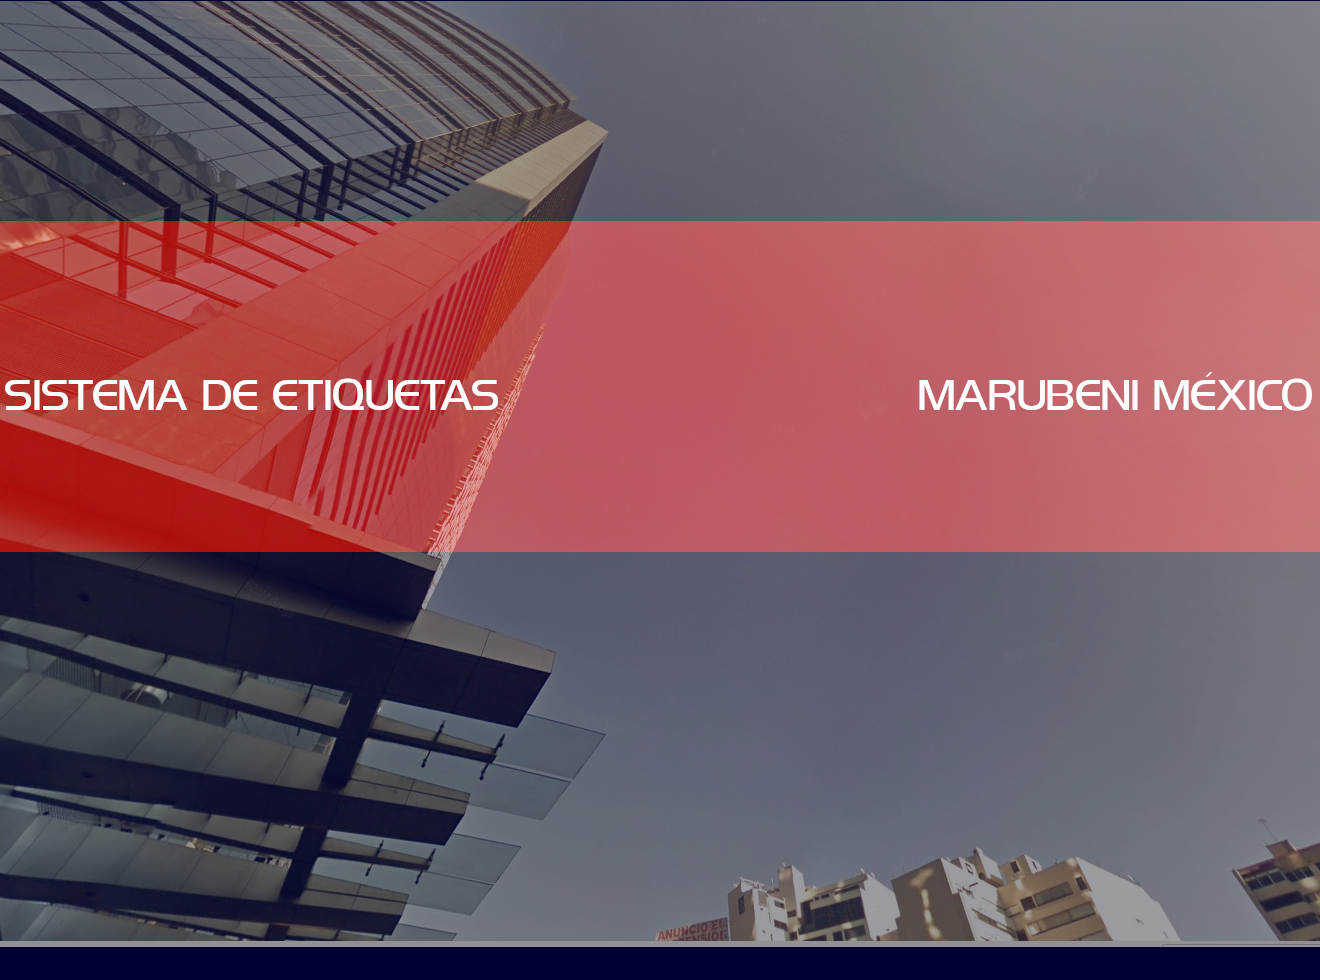
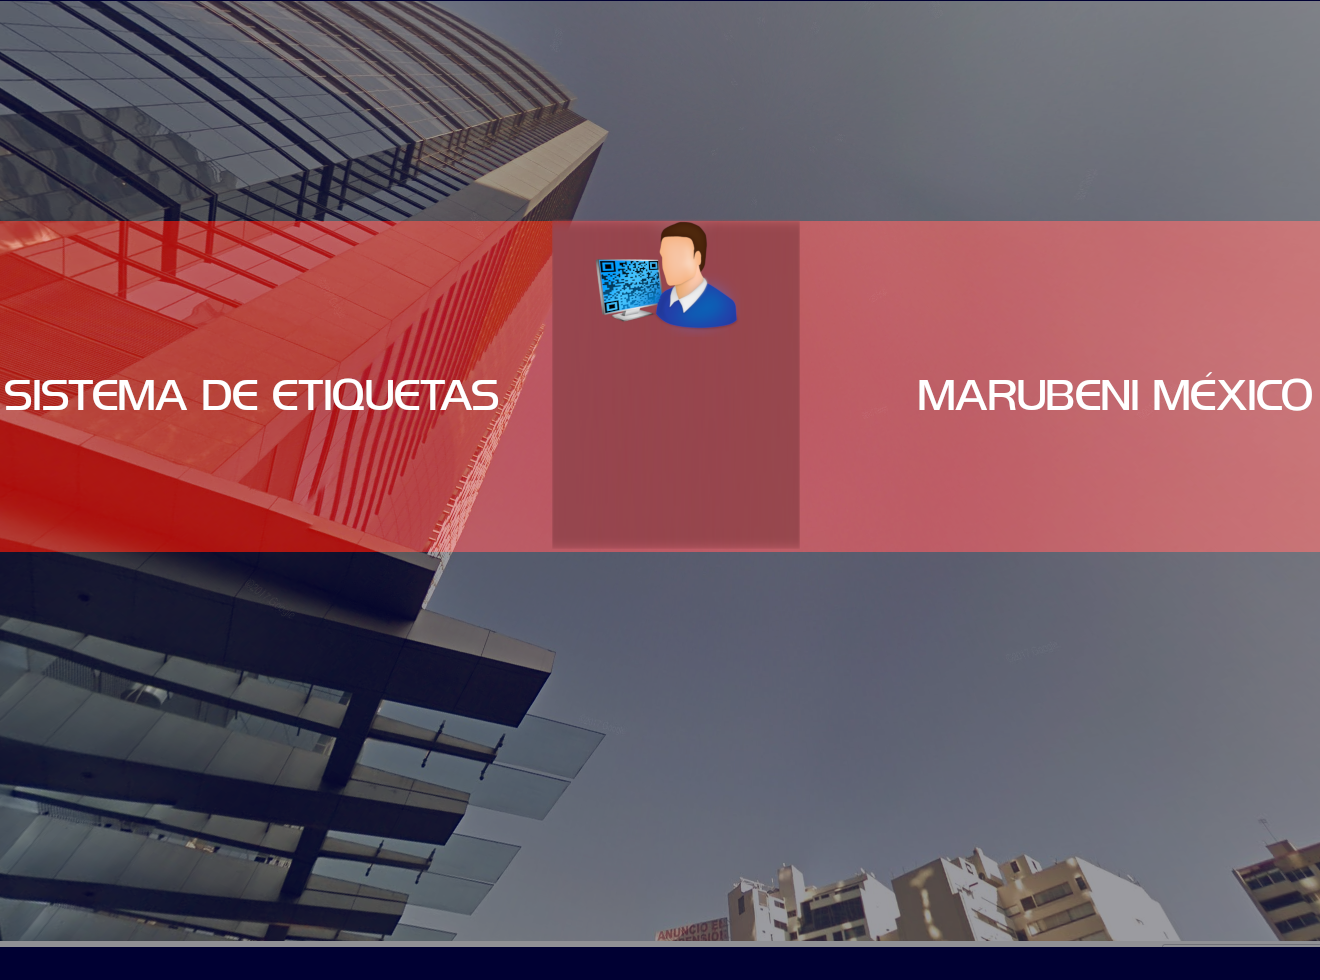
clear

Changed region(s): [[0.4038, 0.2143, 0.6212, 0.5816]]

diff --git a/web/resources/css/style.css b/web/resources/css/style.css
@@ -10,13 +10,13 @@ body
 {
     position: absolute;
     top: 62%;
-    left: 50%;
+    left: 51%;
     transform: translate(-50%,-50%);
     width: 300px;
-    height: 350px;
+    height: 370px;
     padding: 80px 40px;
     box-sizing: border-box;
-    background: rgba(0,0,0,.2);
+/*    background: rgba(0,0,0,.2);*/
 /*    background-image: url(../..//Images/qr.png);*/
 
 }

diff --git a/src/java/com/etiquetas/qrsys/bean/SerieBean.java b/src/java/com/etiquetas/qrsys/bean/SerieBean.java
@@ -62,6 +62,7 @@ public class SerieBean implements Serializable {
     private List<String> listaSeriesDuplicadas;
     private List<String> listaArticulosInexistentes;
     private int registrosNuevos = 0;
+    private String deleteFact;
 
     Usuario user = (Usuario) FacesContext.getCurrentInstance().getExternalContext().getSessionMap().get("usuario");
 
@@ -188,8 +189,14 @@ public class SerieBean implements Serializable {
     public List<String> getListaArticulosInexistentes() {
         return listaArticulosInexistentes;
     }
-    
-    
+
+    public String getDeleteFact() {
+        return deleteFact;
+    }
+
+    public void setDeleteFact(String deleteFact) {
+        this.deleteFact = deleteFact;
+    }
 
     public void obtener(List<List<XSSFCell>> cellDataList) throws SQLException {
         listar = new ArrayList<>();
@@ -327,7 +334,7 @@ public class SerieBean implements Serializable {
     }
 
     public void buscarArticulo(String art, String fac, String ser) throws SQLException {
-
+        this.deleteFact = fac;
         Inve01Dao iDao = new InveDaoImp();
         listarDesc = iDao.listaInve01(art);
         for (int i = 0; i < listarDesc.size(); i++) {
@@ -362,6 +369,12 @@ public class SerieBean implements Serializable {
             factura = new Factura();
             listaBuscarFactura.clear();
         }
+    }
+
+    public void borrarFactura() {
+        FacturaDao fDao = new FacturaDaoImp();
+        fDao.borrarFactura(this.deleteFact);
+        this.deleteFact = null;
     }
 
 }

diff --git a/src/java/com/etiquetas/qrsys/dao/Conexion.java b/src/java/com/etiquetas/qrsys/dao/Conexion.java
@@ -6,9 +6,17 @@ import java.sql.SQLException;
 
 public class Conexion {
 
+//    private final String URL = "jdbc:sqlserver://10.220.221.158\\SQLEXPRESS;databaseName=SAE70Empre01";
+//    private final String USERNAME = "sa";
+//    private final String USERNAME2 = "gastos_usrdb";
+//    private final String PASS = "aspel**2012";
+//    private final String PASS2 = "k1CruJ@raDix";
+//    private final String URL2 = "jdbc:sqlserver://10.220.221.158\\SQLEXPRESS;databaseName=dbqrsys";
     private final String URL = "jdbc:sqlserver://localhost:1433;databaseName=SAE70Empre01";
     private final String USERNAME = "sa";
+    private final String USERNAME2 = "sa";
     private final String PASS = "8dev*sys#1";
+    private final String PASS2 = "8dev*sys#1";
     private final String URL2 = "jdbc:sqlserver://localhost:1433;databaseName=dbqrsys";
 
     private Connection cn;
@@ -55,7 +63,7 @@ public class Conexion {
     public void ConectarQr() {
         try {
             Class.forName("com.microsoft.sqlserver.jdbc.SQLServerDriver");
-            cnqr = DriverManager.getConnection(URL2, USERNAME, PASS);
+            cnqr = DriverManager.getConnection(URL2, USERNAME2, PASS2);
         } catch (ClassNotFoundException | SQLException e) {
         }
 

diff --git a/src/java/com/etiquetas/qrsys/dao/FacturaDaoImp.java b/src/java/com/etiquetas/qrsys/dao/FacturaDaoImp.java
@@ -169,6 +169,26 @@ public class FacturaDaoImp implements FacturaDao {
         return lista;
     }
 
+    @Override
+    public void borrarFactura(String factura) {
+       Session session = HibernateUtil.getSessionfactory().openSession();
+        Transaction t = session.beginTransaction();
+        String hql = "DELETE  Factura  WHERE nofactura=:nofactura";
+        Query<?> q = session.createQuery(hql);
+        q.setParameter("nofactura", factura);
+        try {
+            q.executeUpdate();
+            t.commit();
+            session.close();
+            FacesContext.getCurrentInstance().addMessage(null, new FacesMessage(FacesMessage.SEVERITY_INFO,
+                    "SISTEMA DE ETIQUETAS", "Registro borrado"));
+        } catch (Exception e) {
+            FacesContext.getCurrentInstance().addMessage(null,
+                    new FacesMessage(FacesMessage.SEVERITY_ERROR, "SISTEMA DE ETIQUETAS", "ERROR" + e.getMessage()));
+            t.rollback();
+        }
+    }
+
    
 
 }

diff --git a/src/java/com/etiquetas/qrsys/bean/LoginBean.java b/src/java/com/etiquetas/qrsys/bean/LoginBean.java
@@ -67,7 +67,18 @@ public class LoginBean implements Serializable {
             loggedIn = true;
             FacesContext.getCurrentInstance().getExternalContext().getSessionMap().put("usuario", this.usuario);
             message = new FacesMessage(FacesMessage.SEVERITY_INFO, "Bienvenido", this.usuario.getNombre());
-            ruta = "/WebAppEtiquetas/Views/Home.jsf";
+            switch (this.usuario.getPerfil().getIdperfil()) {
+                case 1:
+                    ruta = "/WebAppEtiquetas/Views/Home.jsf";
+                    break;
+                case 2:
+                    ruta = "/WebAppEtiquetas/Views/Sae.jsf";
+                    break;
+                default:
+                    ruta = "/WebAppEtiquetas/Views/Home.jsf";
+                    break;
+            }
+
         } else {
             loggedIn = false;
 

diff --git a/src/java/com/etiquetas/qrsys/dao/FacturaDao.java b/src/java/com/etiquetas/qrsys/dao/FacturaDao.java
@@ -24,5 +24,7 @@ public interface FacturaDao {
     public List<Factura> listaTraspasoEntrada();
     
     public List<Factura> listaTraspasoSalida();
+    
+    public void borrarFactura(String factura);
 
 }
